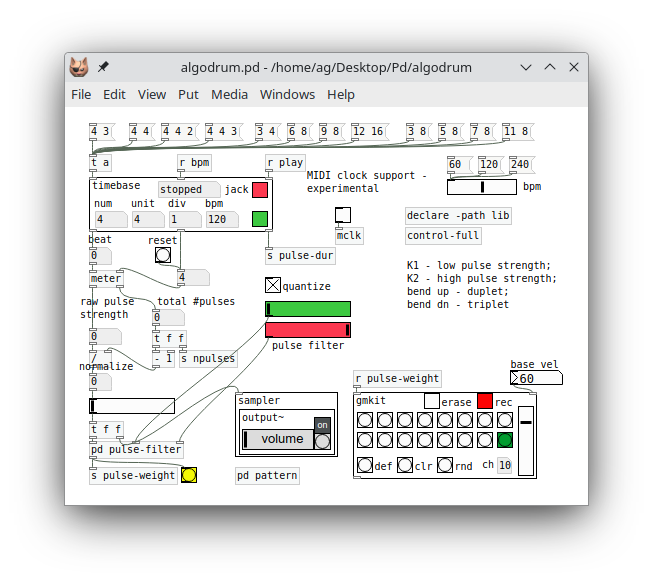
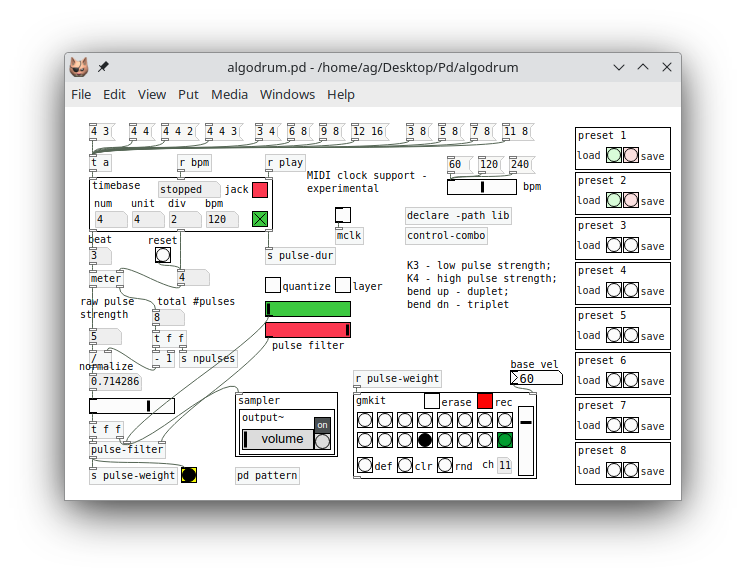
Update documentation.

Changed region(s): [[0.0613, 0.0936, 0.9495, 0.8735], [0.2757, 0.0936, 0.7351, 0.1248]]

diff --git a/README.md b/README.md
@@ -1,20 +1,22 @@
 # algodrum
 
-This is an algorithmic drum machine based on Barlow's theory of meter as explained in his book "On Musiquantics" (Section 22, "A Quantitative Approach to Metre"). It generates rhythmic patterns for any given meter in an automatic fashion, assigning a unique pulse strength to each pulse. Different notes can be played for different ranges of pulse strengths, and the pulses can be filtered according to their strengths.
+This is an algorithmic drum machine based on Barlow's theory of meter and rhythm as explained in his book "On Musiquantics" (Section 22, "A Quantitative Approach to Metre"). It generates rhythmic patterns for any given meter in an automatic fashion, assigning a unique pulse strength to each pulse. Different notes can be played for different ranges of pulse strengths, and the pulses can be filtered according to their strengths.
 
 ![algodrum](algodrum.png)
 
-algodrum is a bit quirky as drum sequencers go, but it handles complex meters with ease, and can be used to produce interesting and dynamically evolving rhythmic or melodic patterns with a bit of experimentation and creativity. Also, it works more like an arpeggiator and is thus perfectly usable without any real finger drumming skills.
+algodrum is a bit quirky as drum sequencers go, but it handles complex meters with ease, and can be used to produce interesting and dynamically evolving rhythmic or melodic patterns with a bit of experimentation and creativity. Also, it works more like an arpeggiator and is thus perfectly usable without requiring any real finger drumming skills.
 
 ## Prerequisites
 
-algodrum is implemented as a Pd patch, and includes some externals written in Lua, so you'll need Pd (any recent version of vanilla Pd or Purr Data will do) and Pd-Lua (0.11 or later, available from https://agraef.github.io/pd-lua/).
+algodrum is implemented as a Pd patch, and includes some externals written in Lua, so you'll need Pd (any recent version of vanilla [Pd](http://msp.ucsd.edu/software.html) or [Purr Data](https://agraef.github.io/purr-data/) will do) and Pd-Lua (0.11 or later, available from https://agraef.github.io/pd-lua/; note that Purr Data already includes this and has it in its startup libraries by default).
 
 I've only tested algodrum on Linux so far, but it's not in any way OS-specific, so it should work fine on Mac and Windows, too.
 
 ## Operation
 
 Normally, playback goes to MIDI channel 10 which usually has a drumkit on a GM-compatible synthesizer. But you can also play melodies by changing the `ch` numbox in the gmkit abstration. In this case you may also want to engage the secondary sample-driven drumkit in the sampler abstraction, which can be used to play along the main sequencer in the gmkit abstraction which outputs MIDI.
+
+Note that at present, due to technical limitations it is not possible to run multiple algodrum instances in a single Pd process. Thus, if you need to run multiple algodrums in concert, you'll have to launch them in different Pd instances. In this case, to keep the multiple instances in sync, you can either start transport using a MIDI controller with transport controls (see "MIDI Controls" below), or by using an external clock source (see "Transport").
 
 ### Transport
 
@@ -46,30 +48,36 @@ The pulse filter can actually be operated in two modes: *filter mode* (the defau
 
 The modes differ, however, in how filtered-out notes are handled. In *filter mode*, filtered-out notes will not sound at all. By these means, you can mute either low-strength pulses with the green slider (which has the effect of gradually "thinning out" the pulse train as you move the slider), or high-strength pulses with the red slider (giving the rhythm an "off-beat" feel). Of course, you can also do both at the same time. This can be used as a live performance technique, or to edit the sequence while focusing on just a subset of the pulses.
 
-In *layering* or *overdub mode*, the filtered-out notes will be played from the pattern instead, but they can neither be overridden by note input, nor recorded (or erased). This lets you listen to the entire sequence while modifying (and possibly recording) just the filtered pulses. Again, this can be used as a performance technique, but it also gives you an easy way to edit parts of a pattern in context.
+In contrast, *layering* or *overdub mode* will actually play the filtered-out notes from the pattern instead of muting them, but they can neither be overridden by note input nor recorded (or erased). This lets you listen to the entire sequence while modifying (and possibly recording) just the filtered pulses. Again, this can be used as a performance technique, but it also gives you an easy way to edit parts of a pattern in context.
 
 ## MIDI Controls
 
-First, you want to make sure that you have your MIDI controller hooked up to Pd's MIDI input so that you can input notes and employ the MIDI controls of your device. And of course you want to connect Pd's MIDI output to whatever synthesizer you want to play algodrum's output.
+You can hook up a MIDI controller to Pd's MIDI input so that you can input notes and employ the MIDI controls of your device. (Note that algodrum takes input from any MIDI channel, so if you need to filter out some MIDI channels, you'll have to use an external tool for that purpose.) And of course you want to connect Pd's MIDI output to whatever synthesizer you want to play algodrum's output.
 
-NB: You can do without MIDI controller and synthesizer, but then you'll only be able to play the (rather limited) sampled drumkit of the included sampler abtraction. To fully utilize algodrum, you'll need to have both MIDI input and output working.
+NB: You can do without MIDI controller and synthesizer, but then you'll only be able to play presets using the sampled drumkit of the included sampler abstraction. To get the most out of algodrum, you'll really want a suitable MIDI controller (there are many reasonably good budget options available today, such as the [AKAI MPK mini](https://www.akaipro.com/mpk-mini-mk3) keyboards) and either a drumkit sampler or a GM-compatible synth (check, e.g., [Sitala](https://decomposer.de/sitala/) for the former and [Qsynth](https://qsynth.sourceforge.io/) for the latter, which can both be downloaded free of charge).
 
-As already mentioned, all available control schemes accept pitch bends as duplet/triplet controls (see above). In addition, if your MIDI controller has a sustain pedal, you can use it to momentarily engage `rec` mode, which is handy for hands-free operation if you're busy operating the drum pads. Also, if your MIDI controller has a volume control (CC7), it can be used to change the MIDI volume in the gmkit abtraction (this can also be operated manually by changing the volume slider with the mouse).
+As already mentioned, all available control schemes accept pitch bends as duplet/triplet controls (see above). In addition, if your MIDI controller has a sustain pedal, you can use it to momentarily engage `rec` mode, which is handy for hands-free operation if you're busy operating the drum pads. Also, the volume control (CC7) can be used to change the MIDI volume in the gmkit abstraction (this can also be operated manually by changing the volume slider with the mouse). Last but not least, presets can be loaded using MIDI program change messages (PC 1 thru 8), see "Managing Presets" below for details.
 
-Note that algodrum takes input from any MIDI channel, so if you need to filter out some MIDI channels, you'll have to use an external tool for that purpose.
-
-The available control schemes are provided as abstractions named `control-xyz` in the lib subfolder. At present, we have ready-made control schemes for the AKAI mini/miniplus keyboards, as well as the Donner StarryPad drumpad (a budget drum controller, but very usable). There's also a generic control scheme which should work with most MIDI controllers and offers some computer keyboard bindings for functions which might not be readily available as MIDI buttons.
+The available control schemes are provided as abstractions named `control-xyz` in the lib subfolder. At present, we have ready-made control schemes for the AKAI MPK mini and miniplus keyboards, as well as the Donner StarryPad drumpad. There's also a generic control scheme which should work with most MIDI controllers and offers some computer keyboard bindings for functions which might not be readily available as MIDI buttons. Here is a quick rundown of the available control patches:
 
 - control-generic.pd: This assigns CC3 and CC4 to the pulse filter controls, and CC2 to the `layer` toggle. The F1 and F2 keys on the computer keyboard are assigned to the `play` and `rec` functions, respectively.
 
-- control-miniplus.pd: This will work with any of the AKAI mini keyboards. It assigns CC72 and CC73 (a.k.a. K3 and K4) to the pulse filter controls, and CC2 (a.k.a. K2) to the `layer` toggle. On the miniplus, the STOP, PLAY, and REC transport buttons also work as you'd expect.
+- control-miniplus.pd: This will work with any of the AKAI MPK mini keyboards. It assigns CC72 and CC73 (a.k.a. K3 and K4) to the pulse filter controls, and CC71 (a.k.a. K2) to the `layer` toggle. On the miniplus, the STOP, PLAY, and REC transport buttons also work as you'd expect.
 
 - control-starrypad.pd: This assigns CC20 and CC21 (a.k.a. F1 and F2) to the pulse filter controls, and CC9 (a.k.a. K2) to the `layer` toggle. The play/stop and rec transport controls are assigned to the appropriate functions. Moreover, since the StarryPad has no pitch bend wheel, the A and B buttons work as momentary switches for duplet/triplet divisions.
 
 - control-combo.pd: This is a combination of the assignments in the generic, miniplus, and starrypad schemes, useful if you have multiple controllers available and want to use them all at the same time.
 
-As I'm lazy and don't want to change the control scheme all the time, control-combo is currently the default. But YMMV, so you may want to change it. To use any of these bindings, just replace the control-combo abstraction in the algodrum patch with whatever best suits your purpose, or adjust the control-combo abstraction for your needs. If your controller doesn't match, chances are that you can still get it to work by just changing some CC numbers in the subpatch.
+As I'm lazy and don't want to change the control scheme all the time, control-combo is currently the default. YMMV, so you may want to change it. To use any of these bindings, just replace the control-combo abstraction in the algodrum patch with whatever best suits your purpose. You can also just take the control-combo abstraction and adjust it for your needs. If your controller doesn't match, chances are that you can still get it to work by just changing some CC numbers in the control patch.
+
+If you have any control patches of your own which might be useful for others, please toss them my way so that I can include them in the github project.
 
 ## Managing Presets
 
-There's no preset management at present, but you can save the patch under a new name to store the relevant settings (meter, bpm, MIDI channel) along with it.
+algodrum includes a simple preset manager, which allows you to store the current settings (meter, division, bpm, MIDI output channel) along with the current pattern as numbered files on permanent storage, which can be recalled at any time. To these ends you'll find a column with eight preset slots on the right-hand side of the main patch. Use the `save` and `load` buttons to save and load individual presets to and from text files in the presets folder. If your MIDI controller allows you to send program change (PC) messages, you can also use these to load presets (PC *n* to switch to preset *n*, where *n* runs from 1 to 8).
+
+Once a preset has been saved, the colors of the buttons change to reflect the status change. There is no button to delete a stored preset, but you can do this outside of Pd by just deleting the corresponding files in the presets folder (preset*n*.*, where *n* denotes the preset number in the range 1-8). (You might want to back up the files in a secure place before you do that.)
+
+## Author
+
+Albert Gräf (<aggraef@gmail.com>, https://agraef.github.io/)
